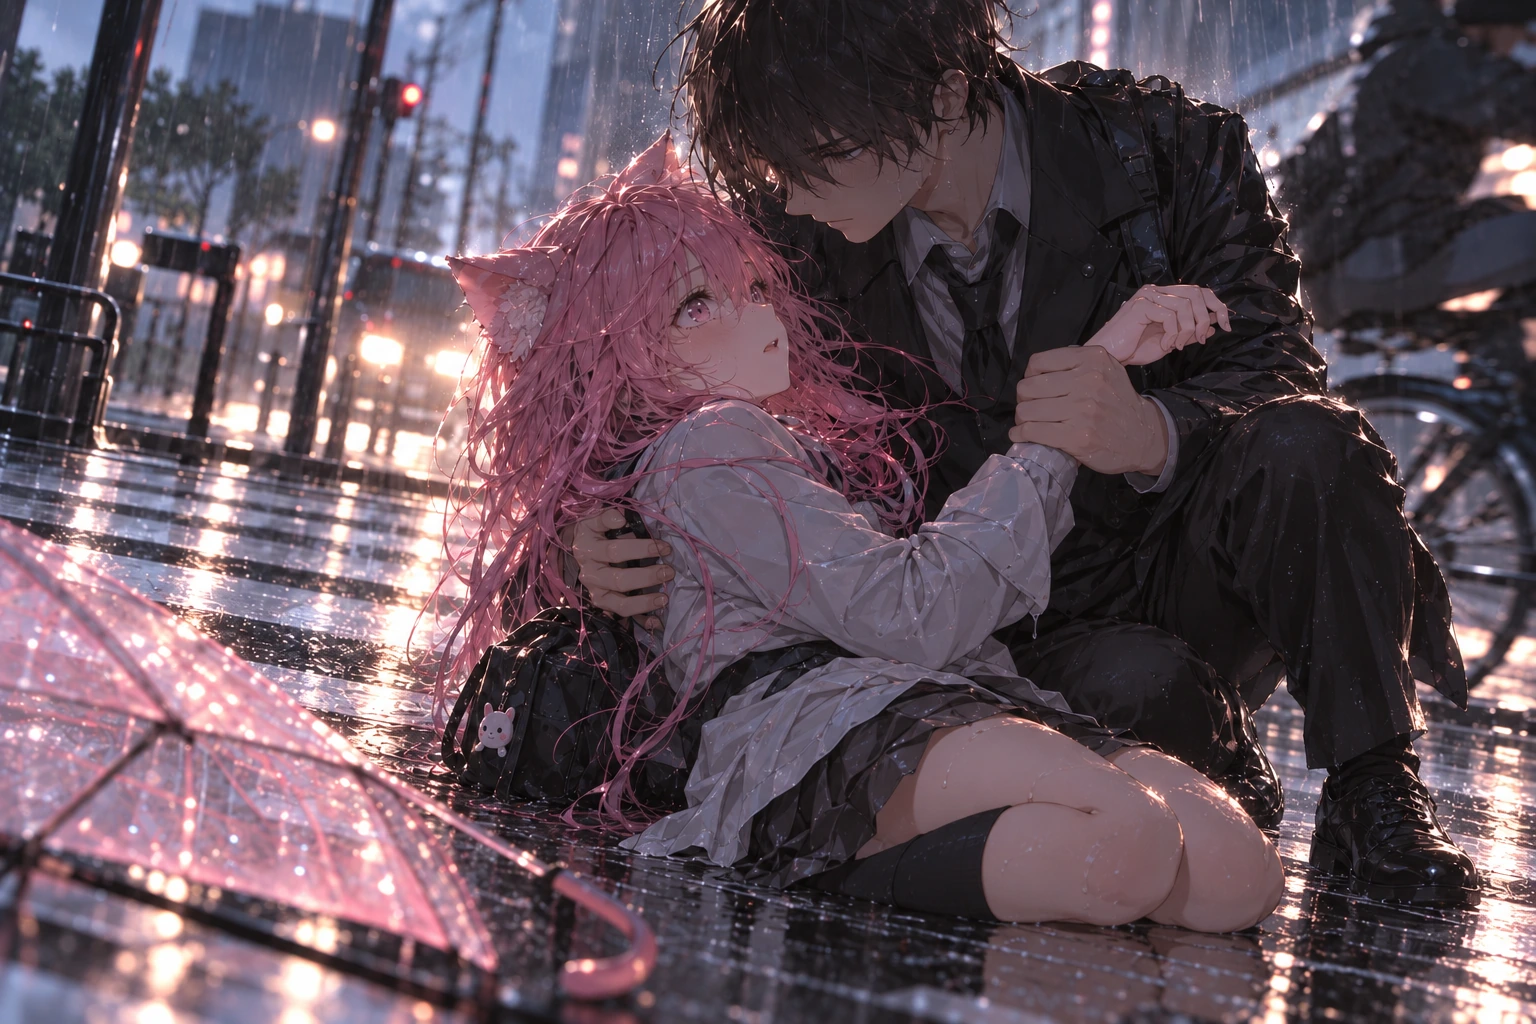
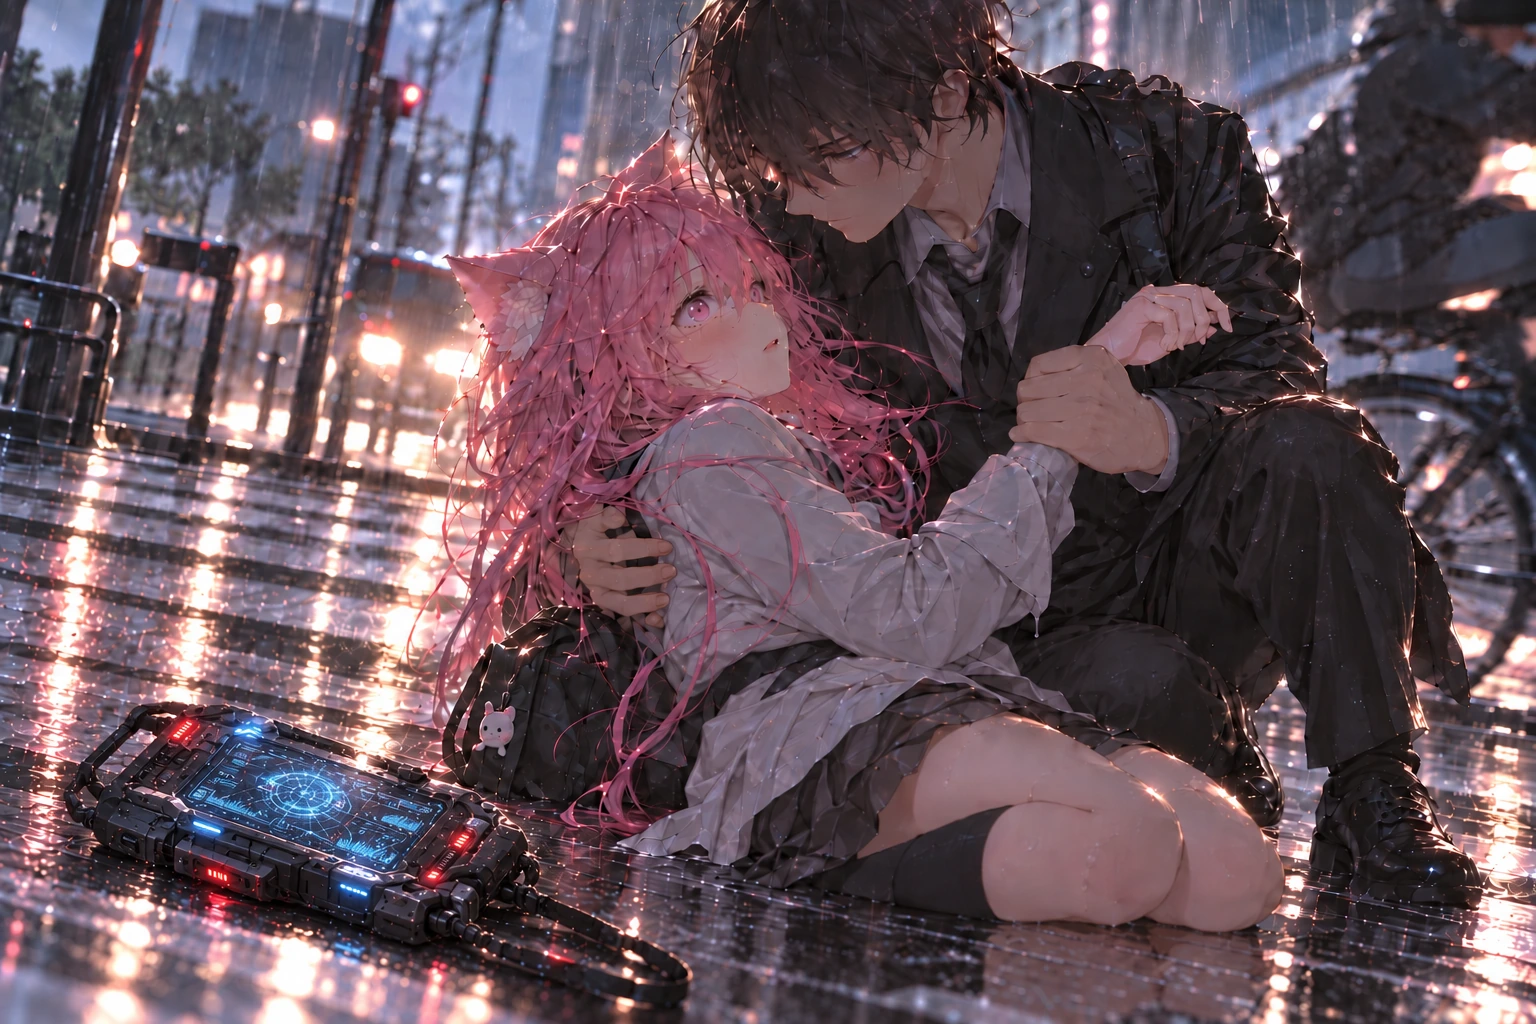
Add files via upload

diff --git a/index.html b/index.html
@@ -22,7 +22,7 @@
 <meta name="twitter:title" content="NEMO : 17:32" />
 <meta name="twitter:description" content="この17分だけは、誰にも渡さない。 記録者・榊透とねもの、空白の17分32秒をめぐるWebノベルゲーム。" />
 <meta name="twitter:image" content="https://haine-cpu7.github.io/nemo-17-32/ogp.png" />
-<link rel="stylesheet" href="style.css?v=0.7.1" />
+<link rel="stylesheet" href="style.css?v=0.7.2" />
 <style>
 /* v0.5.1 inline safety override for mobile title grid */
 @media (max-width: 760px){
@@ -75,7 +75,7 @@
         <button id="extra5Btn" disabled>EXTRA RECORD V / LOCKED</button>
         <button id="archiveBtn" class="archive-title-btn">17:32 ARCHIVE</button>
       </div>
-      <div class="version">COMPLETE v0.7.1 / PC & MOBILE WEB NOVEL</div>
+      <div class="version">COMPLETE v0.7.2 / PC & MOBILE WEB NOVEL</div>
     </div>
   </section>
 
@@ -153,6 +153,6 @@
   <div id="toast" class="toast hidden"></div>
 </div>
 
-<script src="script.js?v=0.7.1"></script>
+<script src="script.js?v=0.7.2"></script>
 </body>
 </html>
